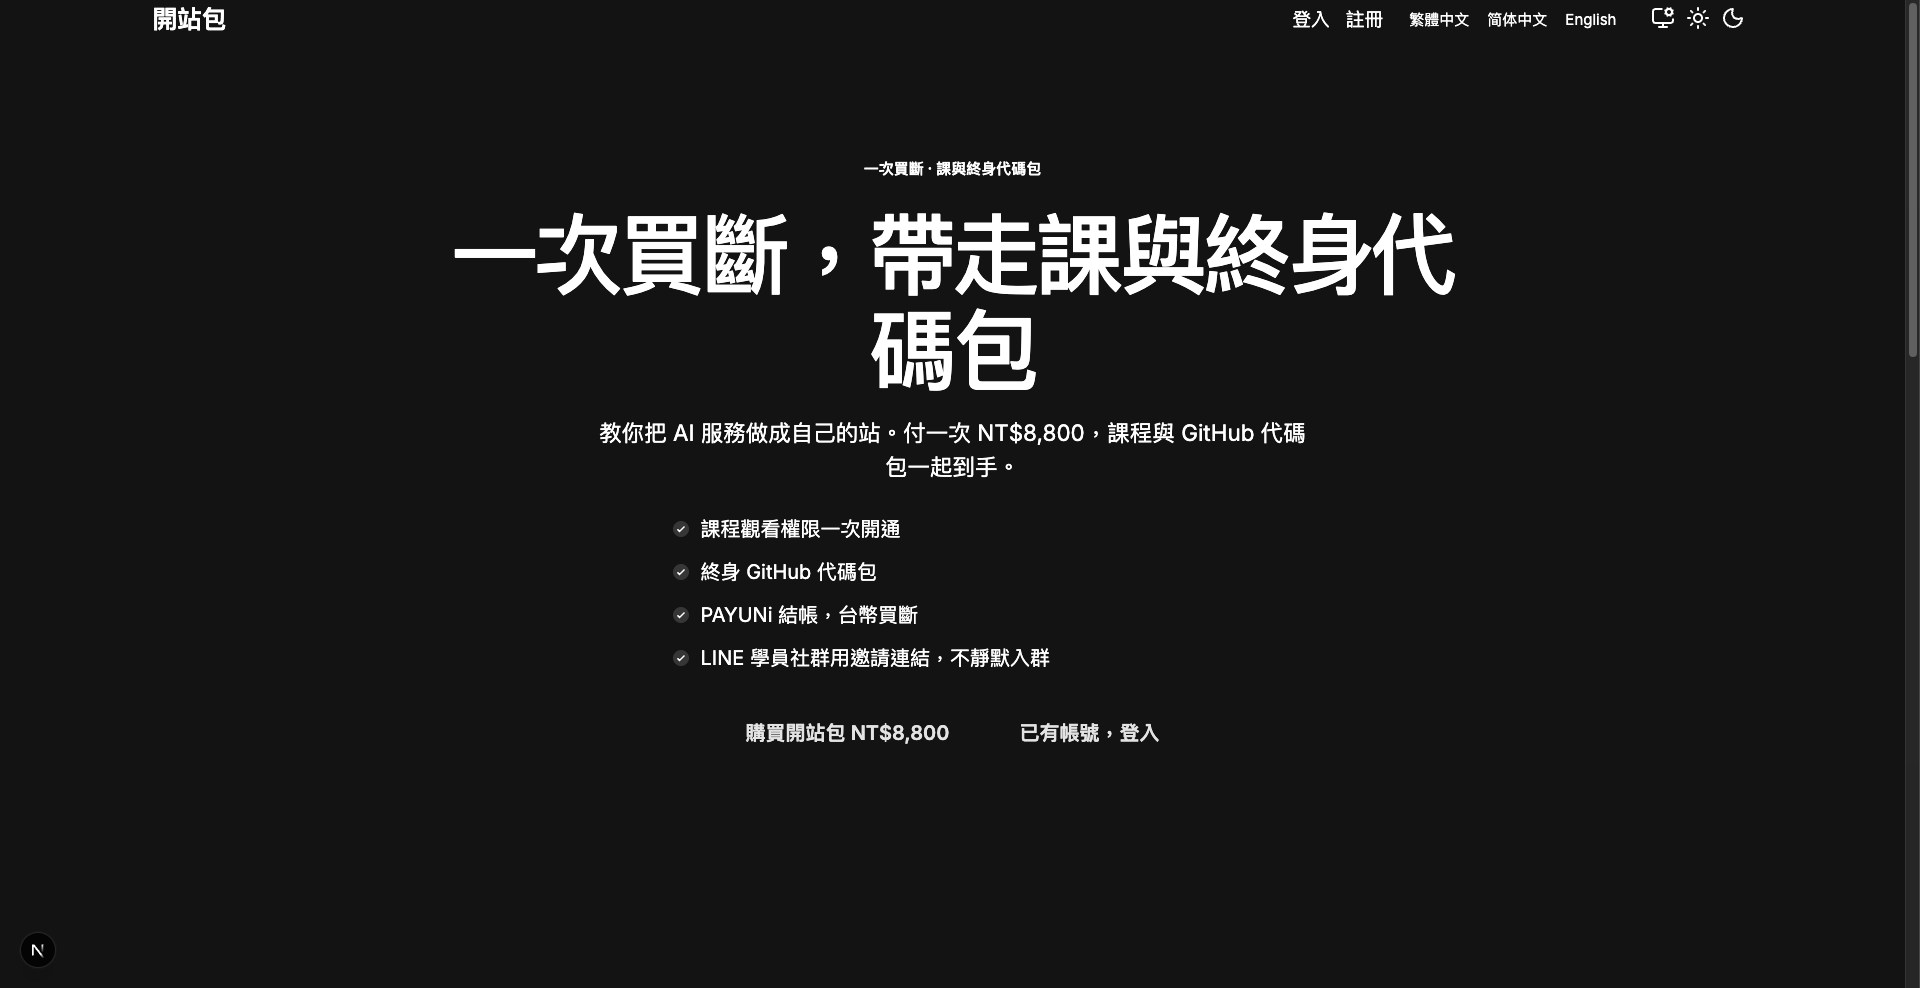
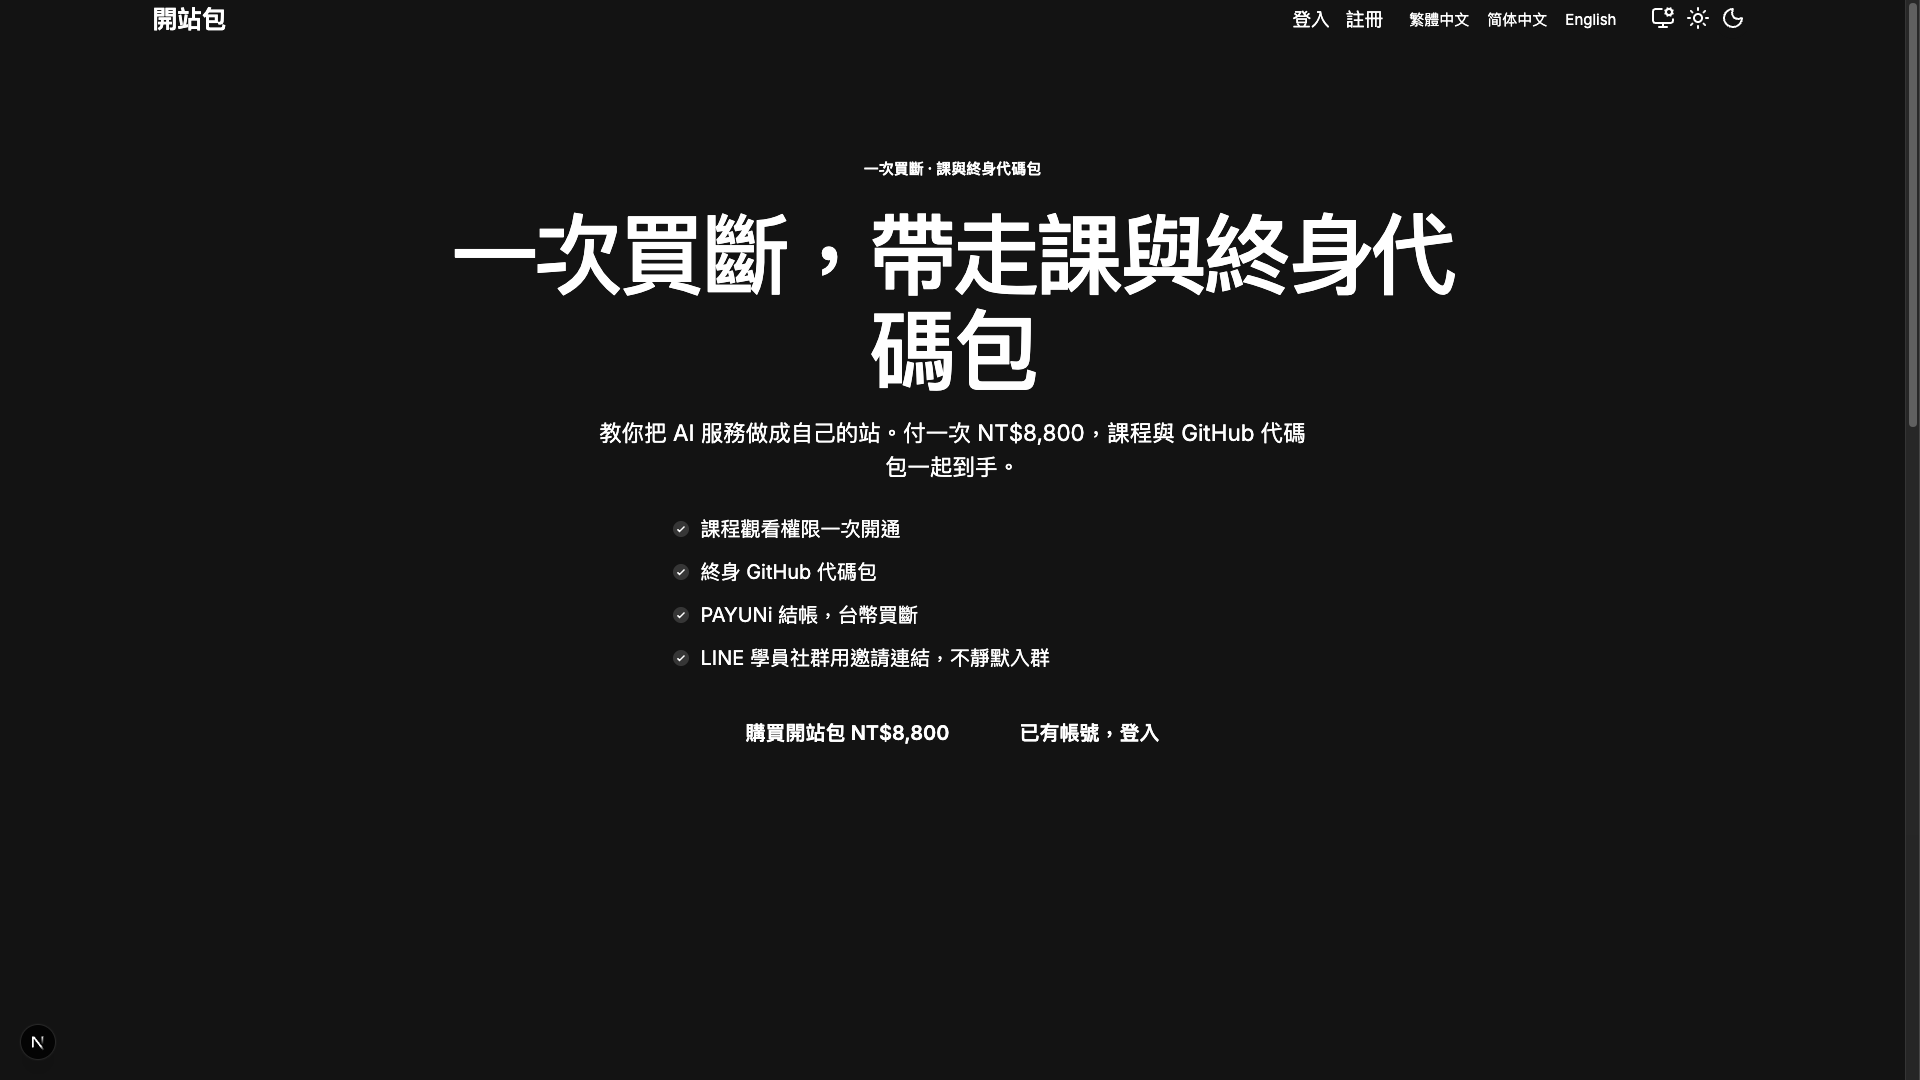
test: 補齊設計系統批次二驗收

diff --git a/apps/saas/lib/agent-data.ts b/apps/saas/lib/agent-data.ts
@@ -1,7 +1,7 @@
 import { createDatabase } from "@startkiter/database";
 import { listLessons } from "@startkiter/course";
 import { MVP_SKU } from "@startkiter/payments";
-import type { AgentDataAccess } from "@startkiter/site-agent";
+import type { AgentDataAccess, AgentOrder } from "@startkiter/site-agent";
 
 import { userHasCourseAccess } from "./course-access";
 
@@ -13,7 +13,7 @@ export function createPrismaAgentDataAccess(): AgentDataAccess {
 				where: { userId, sku: MVP_SKU },
 				orderBy: { createdAt: "desc" },
 			});
-			return rows.map((row) => ({
+			return rows.map((row: AgentOrder) => ({
 				orderNo: row.orderNo,
 				sku: row.sku,
 				status: row.status,

diff --git a/openspec/changes/rebuild-design-system-from-source/tasks.md b/openspec/changes/rebuild-design-system-from-source/tasks.md
@@ -15,7 +15,7 @@
 
 - [x] 3.1 撰寫測試驗證 Decision「元件庫遷移：逐元件源碼比對搬遷，不是重新設計」的 Button／Card／Badge 部分——延續既有 `data-slot` 屬性斷言（`packages/ui/src/components.test.tsx`），額外斷言元件原始碼 import 自 `@base-ui/react` 而非 `radix-ui`，驗證方式：新增 import 來源檢查測試，目前為紅燈
 - [x] 3.2 執行 `pnpm --filter=ui shadcn add --base base button card badge`，用 Base UI 版本元件取代 `packages/ui/src/components/button.tsx`、`card.tsx`、`badge.tsx` 現有 Radix UI 實作，滿足 Requirement「UI components come from the shared design system」，驗證方式：3.1 測試轉綠燈
-- [ ] 3.3 更新 `apps/saas/app/page.tsx`、`apps/saas/app/app/page.tsx` 等呼叫這三個元件的頁面，適配 Base UI 版本的 props 介面差異，驗證方式：既有 `apps/saas/lib/home-shell.test.ts`、`apps/saas/lib/app-home.test.ts` 保持綠燈且 `pnpm --filter @startkiter/saas type-check` 通過
+- [x] 3.3 更新 `apps/saas/app/page.tsx`、`apps/saas/app/app/page.tsx` 等呼叫這三個元件的頁面，適配 Base UI 版本的 props 介面差異，驗證方式：既有 `apps/saas/lib/home-shell.test.ts`、`apps/saas/lib/app-home.test.ts` 保持綠燈且 `pnpm --filter @startkiter/saas type-check` 通過
 
 ## 4. 元件庫替換：表單元件（Input／Form／Label）
 
@@ -27,7 +27,7 @@
 
 - [x] 5.1 撰寫測試驗證 Tooltip／Spinner／ColorModeToggle 元件 import 自 `@base-ui/react`，且 Decision「Dark and light mode share the same component system」描述的 `.dark` class 切換行為維持不變，驗證方式：新增測試，目前為紅燈
 - [x] 5.2 執行 `pnpm --filter=ui shadcn add --base base tooltip spinner`，取代 `packages/ui/src/components/tooltip.tsx`、`spinner.tsx` 現有實作；`color-mode-toggle.tsx` 改用 Base UI 的狀態管理原語重寫深色模式切換邏輯，驗證方式：5.1 測試轉綠燈
-- [ ] 5.3 用 ego-browser 對首頁與後台首頁分別測試深色/淺色模式切換，確認切換後 `document.documentElement.classList.contains('dark')` 正確變化且視覺無跳動或殘留樣式，驗證方式：Requirement「Dark and light mode share the same component system」的既有測試場景保持綠燈，並截圖存檔佐證
+- [x] 5.3 用 ego-browser 對首頁與後台首頁分別測試深色/淺色模式切換，確認切換後 `document.documentElement.classList.contains('dark')` 正確變化且視覺無跳動或殘留樣式，驗證方式：Requirement「Dark and light mode share the same component system」的既有測試場景保持綠燈，並截圖存檔佐證
 
 ## 6. 移除 Radix UI 依賴
 
